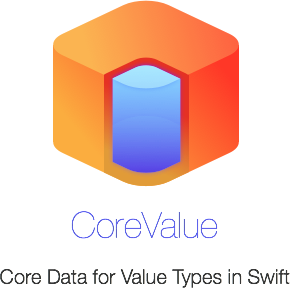
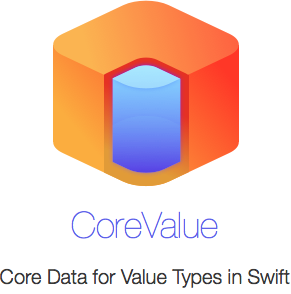
Several small documentation changes, updated the header images to not be transparent.

diff --git a/Readme.md b/Readme.md
@@ -87,9 +87,11 @@ That's it. Everything else it automated from here. Here're some examples of what
 There're two ways of querying objects from Core Data into values:
 
 ``` Swift
-public static func query<T: UnboxingStruct>(context: NSManagedObjectContext, predicate: NSPredicate?, sortDescriptors: Array<NSSortDescriptor>) -> Array<T>
+// With Sort Descriptors
+public static func query(context: NSManagedObjectContext, predicate: NSPredicate?, sortDescriptors: Array<NSSortDescriptor>) -> Array
     
-public static func query<T: UnboxingStruct>(context: NSManagedObjectContext, predicate: NSPredicate?) -> Array<T>
+// Without sort descriptors
+public static func query(context: NSManagedObjectContext, predicate: NSPredicate?) -> Array
 
 ```
 
@@ -100,92 +102,6 @@ If no NSPredicate is given, all objects for the selected Entity are returned.
 `NSManagedPersistentStruct` is a type alias for the two primary protocols of CoreValue: `BoxingPersistentStruct`, `UnboxingStruct`.
 
 Let's see what they do.
-
-### UnboxingStruct
-
-In CoreValue, `boxed` refers to values in an NSManagedObject container. I.e. NSNumber is boxing an Int, NSOrderedSet an Array, and NSManagedObject itself is boxing a value type (i.e. `Shop`).
-
-`UnboxingStruct` can be applied to any struct or class that you intend to initialize from a NSManagedObject. It only has one requirement that needs to be implemented, and that's `fromObject` which takes a NSManagedObject and should return a value type. Here's a very simple and unsafe example:
-
-``` Swift
-struct Counter : UnboxingStruct
-	var count: Int
-	let name: String
-	static func fromObject(object: NSManagedObject) -> Unboxed<Counter> {
-		return Unboxed.Success(Counter(count: object.valueForKey("count")!.integerValue, name: object.valueForKey("name")!))
-	}
-}
-```
-
-Even though this example is not safe, we can observe several things from it. First, the implementation overhead is minimal. Second, we're not returning a Counter value, but instead the `Unboxed<Counter>` enum. That's because unboxing can fail in a multitude of ways (wrong value, no value, wrong entity, unknown entity, etc). If unboxing fails in any way, we should return `Unboxed.TypeMismatch(...)`. The other benefit of using `Unboxed` is, that it allows us to take an unboxing shortcut (which CoreValue deviously copied from [Argo](https://github.com/thoughtbot/Argo)). Utilizing several custom operators, the unboxing process can be greatly simplified:
-
-``` Swift
-struct Counter : UnboxingStruct
-	var count: Int
-	let name: String
-	static func fromObject(object: NSManagedObject) -> Unboxed<Counter> {
-		return curry(self.init) <^> object <| "count" <*> object <| "name"
-	}
-}
-```
-
-This code takes the automatic initializer, curries it and maps it over multiple incarnations of unboxing functions (`<|`) until it can return a Unboxed<Counter>. As a very neat side effect, if any of the unboxing operations fail, it will automatically return `Unboxed.TypeMismatch` and tell you specifically which decoding failed. Even better, all this is type checked, so if you accidentally try to decode an optional value into an array, the type checker will note it.
-
-But what about these weird runes? Here's an in-detail overview of what's happening here:
-
-#### Unboxing in Detail
-
-`curry(self.init)`
-
-Convert `(A, B) -> T` into `A -> B -> C` so that it can be called step by step
-
-`<^>`
-Map the following operations over the `A -> B -> fn` that we just created
-
-`object <| "count"`
-First operation: Take `object`, call `valueForKey` with the key `"count"` and assign this as the value for the first type of the curryed init function `A`
-
-`<*>`
-Apply on the curried self.init
-
-`object <| "name"`
-Second operation: Take `object`, call `valueForKey` with the key `"count"` and assign this as the value for the second type of the curryed init function `B`
-
-#### Other Operators
-
-`<|` is not the only operator needed to encode objects. Here's a list of all supported operators:
-
-           Operator                     | Description
-:-----:|----------------------------------------------------------
-! <^>  |  Map the following operations (always has to be the first op)
-! <*>  |  Apply on the fn (use this to combine operations)
-! <    |  Unbox a normal value (i.e. var shop: Shop)
-! <||  |  Unbox a set/list of values (i.e. var shops: [Shops])
-! <|?  |  Unbox an optional value (i.e. var shop: Shop?)
-
-### Unboxed
-
-Finally, the Unboxed enum looks like this:
-
-``` Swift
-public enum Unboxed<T> {
-    case Success(T)
-    case TypeMismatch(String)
-    
-    public var value: T?
-    }
-```
-
-You can pattern match for `.Success`, or try to unwrap `value` in order to retrieve the actually unboxed value type:
-
-``` Swift
-switch Shop.fromObject(managedObject) {
-  case .Success(let value):
-    print(value.name)
-  case .TypeMismatch(let error):
-    print(error)
-}
-```
 
 ### BoxingPersistentStruct
 
@@ -253,12 +169,99 @@ Then ***you have to make sure*** that all value types conform to the same boxing
 Most protocols in CoreValue mark the NSManagedObjectContext as an optional, which means that you don't have to supply it. Boxing will still work as expected, only the resulting NSManagedObjects will be ephemeral, that is, they're not bound to a context, they can't be stored. There're few use cases for this, but it is important to note that not supplying a NSManagedObjectContext will not result in an error.
 
 
+### UnboxingStruct
+
+In CoreValue, `boxed` refers to values in an NSManagedObject container. I.e. NSNumber is boxing an Int, NSOrderedSet an Array, and NSManagedObject itself is boxing a value type (i.e. `Shop`).
+
+`UnboxingStruct` can be applied to any struct or class that you intend to initialize from a NSManagedObject. It only has one requirement that needs to be implemented, and that's `fromObject` which takes a NSManagedObject and should return a value type. Here's a very simple and unsafe example:
+
+``` Swift
+struct Counter : UnboxingStruct
+	var count: Int
+	let name: String
+	static func fromObject(object: NSManagedObject) -> Unboxed<Counter> {
+		return Unboxed.Success(Counter(count: object.valueForKey("count")!.integerValue, name: object.valueForKey("name")!))
+	}
+}
+```
+
+Even though this example is not safe, we can observe several things from it. First, the implementation overhead is minimal. Second, we're not returning a Counter value, but instead the `Unboxed<Counter>` enum. That's because unboxing can fail in a multitude of ways (wrong value, no value, wrong entity, unknown entity, etc). If unboxing fails in any way, we should return `Unboxed.TypeMismatch(...)`. The other benefit of using `Unboxed` is, that it allows us to take an unboxing shortcut (which CoreValue deviously copied from [Argo](https://github.com/thoughtbot/Argo)). Utilizing several custom operators, the unboxing process can be greatly simplified:
+
+``` Swift
+struct Counter : UnboxingStruct
+	var count: Int
+	let name: String
+	static func fromObject(object: NSManagedObject) -> Unboxed<Counter> {
+		return curry(self.init) <^> object <| "count" <*> object <| "name"
+	}
+}
+```
+
+This code takes the automatic initializer, curries it and maps it over multiple incarnations of unboxing functions (`<|`) until it can return a Unboxed<Counter>. As a very neat side effect, if any of the unboxing operations fail, it will automatically return `Unboxed.TypeMismatch` and tell you specifically which decoding failed. Even better, all this is type checked, so if you accidentally try to decode an optional value into an array, the type checker will note it.
+
+But what about these weird runes? Here's an in-detail overview of what's happening here:
+
+#### Unboxing in Detail
+
+`curry(self.init)`
+
+Convert `(A, B) -> T` into `A -> B -> C` so that it can be called step by step
+
+`<^>`
+Map the following operations over the `A -> B -> fn` that we just created
+
+`object <| "count"`
+First operation: Take `object`, call `valueForKey` with the key `"count"` and assign this as the value for the first type of the curryed init function `A`
+
+`<*>`
+Apply on the curried self.init
+
+`object <| "name"`
+Second operation: Take `object`, call `valueForKey` with the key `"count"` and assign this as the value for the second type of the curryed init function `B`
+
+#### Other Operators
+
+`<|` is not the only operator needed to encode objects. Here's a list of all supported operators:
+
+           Operator                     | Description
+:-----:|----------------------------------------------------------
+ <^>   |  Map the following operations (always has to be the first op)
+ <*>   |  Apply on the fn (use this to combine operations)
+ <\|   |  Unbox a normal value (i.e. var shop: Shop)
+ <\|\| |  Unbox a set/list of values (i.e. var shops: [Shops])
+ <\|?  |  Unbox an optional value (i.e. var shop: Shop?)
+
+### Unboxed
+
+Finally, the Unboxed enum looks like this:
+
+``` Swift
+public enum Unboxed<T> {
+    case Success(T)
+    case TypeMismatch(String)
+    
+    public var value: T?
+    }
+```
+
+You can pattern match for `.Success`, or try to unwrap `value` in order to retrieve the actually unboxed value type:
+
+``` Swift
+switch Shop.fromObject(managedObject) {
+  case .Success(let value):
+    print(value.name)
+  case .TypeMismatch(let error):
+    print(error)
+}
+```
+
+
 ### NSManagedStruct
 
 Since most of the time you probably want boxing and unboxing functionality, CoreValue includes two handy type aliases, `NSManagedStruct` and `NSManagedPersistentStruct` which contain Boxing and Unboxing in one type.
 
 ## Docs
-(Coming, have a look at CoreValue.swift, it's full of docstrings)
+(Coming, have a look at [CoreValue.swift](https://github.com/terhechte/CoreValue/blob/master/CoreValue/CoreValue.swift), it's full of docstrings)
 
 ## State
 
@@ -291,7 +294,7 @@ for up to date installation instructions.
 The `import CoreValue` directive is required in order to use CoreValue.
 
 
-### [Manually]
+### Manually
 
 1. Copy the CoreValue.swift and curry.swift file into your project.
 2. Add the `Core Data` framework to your project
